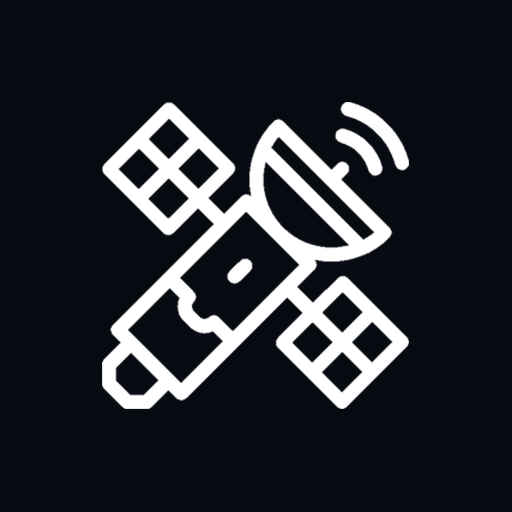
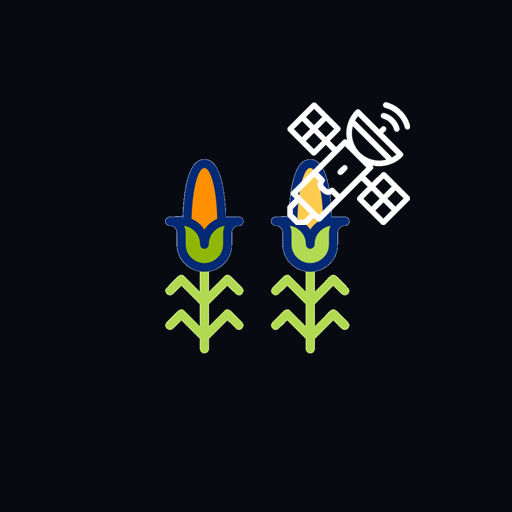
Renombrar la marca a Campo Vivo; icono con mazorcas y satélite pequeño

Changed region(s): [[0.1875, 0.1875, 0.8125, 0.8125]]

diff --git a/index.html b/index.html
@@ -4,8 +4,8 @@
   <meta charset="utf-8">
   <meta name="viewport" content="width=device-width, initial-scale=1">
   <meta name="theme-color" content="#0F2A4A">
-  <meta name="description" content="Agricultura inteligente: evaluación satelital de cultivos de distintos tipos, con identificación de plantas y enfermedades con inteligencia artificial.">
-  <title>Agricultura inteligente</title>
+  <meta name="description" content="Campo Vivo: evaluación satelital de cultivos de distintos tipos, con identificación de plantas y enfermedades con inteligencia artificial.">
+  <title>Campo Vivo</title>
   <link rel="preconnect" href="https://fonts.googleapis.com">
   <link rel="preconnect" href="https://fonts.gstatic.com" crossorigin>
   <link href="https://fonts.googleapis.com/css2?family=Archivo:wdth,wght@90..110,600..800&family=Inter:wght@400;500;600&display=swap" rel="stylesheet">
@@ -23,7 +23,7 @@
         <span class="franja-logo" aria-hidden="true">
           <img class="franja-ganado" src="assets/satelite.webp" alt="">
         </span>
-        <span class="franja-nombre">Agricultura inteligente</span>
+        <span class="franja-nombre">Campo Vivo</span>
         <img class="franja-cerebro" src="assets/cerebro.webp" alt="">
       </a>
       <button type="button" class="menu-btn-portal" aria-expanded="false" aria-controls="menu-principal" aria-label="Menú"><span></span><span></span><span></span></button>
@@ -51,7 +51,7 @@
     <section id="inicio" class="inicio-claro" aria-label="Inicio">
       <div class="inicio-caja">
         <div class="inicio-texto">
-          <p class="eyebrow">Agricultura inteligente</p>
+          <p class="eyebrow">Campo Vivo</p>
           <p class="inicio-lead">Evalúa tus cultivos con tecnología satelital: vigor, humedad y clima de cada lote, para regar, fertilizar y cosechar con información. Identifica plantas y enfermedades con inteligencia artificial desde tu celular.</p>
           <ul>
             <li><b>Vigor y salud:</b> el estado de cada cultivo por lote, desde el satélite.</li>
@@ -60,11 +60,11 @@
             <li><b>Identificación con IA:</b> plantas y enfermedades a partir de una foto.</li>
           </ul>
         </div>
-        <figure class="inicio-imagen"><img src="assets/app-esencia.jpg" alt="Celular en mano mostrando las herramientas de Agricultura inteligente" loading="lazy"><figcaption class="pie-imagen">Agricultura inteligente desde un solo teléfono: evaluación satelital de cultivos, clima y mapas de lotes.</figcaption></figure>
+        <figure class="inicio-imagen"><img src="assets/app-esencia.jpg" alt="Celular en mano mostrando las herramientas de Campo Vivo" loading="lazy"><figcaption class="pie-imagen">Campo Vivo desde un solo teléfono: evaluación satelital de cultivos, clima y mapas de lotes.</figcaption></figure>
       </div>
     </section>
     <section id="como-funciona" class="bloque">
-      <h3 class="subtitulo-app funcion-titulo">Agricultura inteligente · Monitoreo de cultivos</h3>
+      <h3 class="subtitulo-app funcion-titulo">Campo Vivo · Monitoreo de cultivos</h3>
       <div class="como-banda menta banda-salud">
         <div class="como-grid">
           <div>
@@ -184,7 +184,7 @@
           <h3>Inicial</h3>
           <p class="plan-precio"><strong>Gratis</strong></p>
           <ul>
-            <li>Agricultura inteligente con mapa satelital y clima</li>
+            <li>Campo Vivo con mapa satelital y clima</li>
             <li>Pronóstico del clima de tu zona</li>
             <li>Registro básico de lotes y cultivos</li>
           </ul>
@@ -236,7 +236,7 @@
       <div class="acordeon">
         <details open>
           <summary>¿Qué es esta página?</summary>
-          <p>Es la página de Agricultura inteligente: una herramienta que usa imágenes satelitales para evaluar la salud de tus cultivos por lote y apoyar las decisiones de riego, fertilización y cosecha.</p>
+          <p>Es la página de Campo Vivo: una herramienta que usa imágenes satelitales para evaluar la salud de tus cultivos por lote y apoyar las decisiones de riego, fertilización y cosecha.</p>
         </details>
         <details>
           <summary>¿Necesito una cuenta?</summary>
@@ -329,7 +329,7 @@
       </div>
     </div>
     <div class="pie-der">
-      <p class="pie-legal">© 2026 Agricultura inteligente</p>
+      <p class="pie-legal">© 2026 Campo Vivo</p>
     </div>
     <p class="pie-aviso">Esta herramienta es de apoyo: quien la usa es responsable de sus decisiones en el campo.</p>
   </footer>
@@ -365,7 +365,7 @@
   </script>
   <script>
     // Cada opción del menú es una página: solo se muestra la elegida, sin desplazarse entre secciones.
-    // Agricultura inteligente, Gana ID, Pesaje y Huella viven dentro de "Cómo funciona".
+    // Campo Vivo, Gana ID, Pesaje y Huella viven dentro de "Cómo funciona".
     (function () {
       var PAGINAS = ['inicio', 'como-funciona', 'planes', 'preguntas', 'apps'];
       var DENTRO_DE_COMO_FUNCIONA = ['ganader', 'ganaid', 'pesaje', 'huella'];

diff --git a/movil/index.html b/movil/index.html
@@ -6,7 +6,7 @@
   <meta name="theme-color" content="#070A11">
   <meta name="apple-mobile-web-app-capable" content="yes">
   <meta name="apple-mobile-web-app-status-bar-style" content="black-translucent">
-  <title>Agricultura inteligente</title>
+  <title>Campo Vivo</title>
   <link rel="manifest" href="./manifest.webmanifest">
   <link rel="icon" type="image/png" sizes="192x192" href="./icon-192.png">
   <link rel="apple-touch-icon" href="./icon-192.png">
@@ -40,7 +40,7 @@
     .instalar.visible { display: block; }
     /* Iconos de color: el propio icono sirve de máscara */
     .mascara { display: block; width: 30px; height: 30px; background: var(--c); -webkit-mask: var(--img) center / contain no-repeat; mask: var(--img) center / contain no-repeat; }
-    /* Agricultura inteligente: dos pastos abajo y el satélite blanco girado */
+    /* Campo Vivo: dos pastos abajo y el satélite blanco girado */
     .boton-app .ico .combo-ganader { position: relative; display: block; width: 36px; height: 36px; }
     .boton-app .ico .combo-ganader .base { position: absolute; left: 0; bottom: -8px; top: auto; width: 56%; height: auto; }
     .boton-app .ico .combo-ganader .base2 { position: absolute; right: 0; bottom: -8px; top: auto; width: 56%; height: auto; }
@@ -59,7 +59,7 @@
   <section id="pantalla-login" class="pantalla">
     <div class="marca">
       <img src="./icon-192.png" alt="">
-      <h1>Agricultura inteligente</h1>
+      <h1>Campo Vivo</h1>
       <p>Inicia sesión para continuar</p>
     </div>
     <form id="form-login" class="campo-grupo" style="display:grid;gap:12px">
@@ -77,11 +77,11 @@
   <section id="pantalla-apps" class="pantalla">
     <div class="marca">
       <img src="./icon-192.png" alt="">
-      <h1>Agricultura inteligente</h1>
+      <h1>Campo Vivo</h1>
     </div>
     <p class="titulo">¿Qué necesitas hoy?</p>
     <div style="display:grid;gap:12px">
-      <a class="boton-app" href="../potreros/index.html"><span class="ico"><span class="combo-ganader" aria-hidden="true"><img class="base" src="../assets/cesped.png" alt=""><img class="base2" src="../assets/cesped.png" alt=""><img class="sat" src="../assets/satelite.webp" alt=""><img class="maiz b1" src="../assets/maiz-cultivo.gif" alt=""></span></span><span>Agricultura inteligente<small>Monitoreo de cultivos</small></span></a>
+      <a class="boton-app" href="../potreros/index.html"><span class="ico"><img src="../assets/icono-campo-vivo.png" alt=""></span><span>Campo Vivo<small>Monitoreo de cultivos</small></span></a>
       <a class="boton-app oculto" id="enlace-ganaid" href="../ganadero/index.html"><span class="ico"><img src="../assets/ganaid-icono-azul.png" alt=""></span><span>Gana ID<small>Trazabilidad con chip</small></span></a>
       <a class="boton-app oculto" href="../pesaje/index.html"><span class="ico"><img src="../assets/pesaje-icono-rojo.png" alt=""></span><span>Pesaje por imagen<small>Estimación de peso con cámara</small></span></a>
       <a class="boton-app oculto" href="../huella/index.html"><span class="ico"><img src="../assets/huella-icono-sostenible.png" alt=""></span><span>Huella de carbono<small>Metano y maquinaria del campo</small></span></a>

diff --git a/landing.js b/landing.js
@@ -1,12 +1,12 @@
 // =====================================================================
-// Portada única de "Agricultura inteligente".
+// Portada única de "Campo Vivo".
 //
 // Un solo login (Supabase, el mismo de Gana ID) sirve para las dos apps.
 // - Sin sesión: la portada muestra la información y el botón de
 //   "Iniciar sesión" / "Registrarse", que abren el mismo formulario de
 //   Gana ID (bloqueAccesoCuenta / bindAccesoCuenta de shared/ui-common.js).
 // - Con sesión: la portada muestra el selector de app. Gana ID entra según
-//   el rol (admin -> administracion/, ganadero -> ganadero/). Agricultura inteligente
+//   el rol (admin -> administracion/, ganadero -> ganadero/). Campo Vivo
 //   vive en potreros/ del mismo dominio, así que comparte la sesión.
 // =====================================================================
 
@@ -199,8 +199,8 @@ function pintarSeccionApps(session) {
   cont.innerHTML = `
     <div class="apps-grid">
       <article class="app-tarjeta">
-        <span class="app-icono-combo" aria-hidden="true"><img class="base" src="assets/cesped.png" alt=""><img class="base2" src="assets/cesped.png" alt=""><img class="sat" src="assets/satelite.webp" alt=""><img class="maiz b1" src="assets/maiz-cultivo.gif" alt=""></span>
-        <h3>Agricultura inteligente</h3>
+        <img class="app-icono-img" src="assets/icono-campo-vivo.png" alt="" aria-hidden="true">
+        <h3>Campo Vivo</h3>
         <p class="app-subtitulo">Monitoreo de cultivos</p>
         <ul>
           <li>Monitoreo de cultivos con imágenes satelitales</li>

diff --git a/potreros/index.html b/potreros/index.html
@@ -7,14 +7,14 @@
     <link rel="manifest" href="./manifest.webmanifest" />
     <link rel="icon" type="image/png" sizes="192x192" href="./icon-192.png" />
     <link rel="apple-touch-icon" href="./icon-192.png" />
-    <meta name="description" content="Agricultura inteligente: herramienta para monitorear cultivos de distintos tipos. Dibuja tu potrero, revisa su salud satelital y el clima, y lleva el descanso y la ocupación." />
+    <meta name="description" content="Campo Vivo: herramienta para monitorear cultivos de distintos tipos. Dibuja tu potrero, revisa su salud satelital y el clima, y lleva el descanso y la ocupación." />
     <link rel="preconnect" href="https://fonts.googleapis.com" />
     <link rel="preconnect" href="https://fonts.gstatic.com" crossorigin />
     <link
       href="https://fonts.googleapis.com/css2?family=Archivo:wdth,wght@90..110,600..800&family=Inter:wght@400;500;600&display=swap"
       rel="stylesheet"
     />
-    <title>Agricultura inteligente</title>
+    <title>Campo Vivo</title>
     <script type="module" crossorigin src="./assets/index-D10fhGVg.js"></script>
     <link rel="stylesheet" crossorigin href="./assets/index-BRniseXL.css">
   </head>

diff --git a/potreros/mapa-alertas/index.html b/potreros/mapa-alertas/index.html
@@ -56,7 +56,7 @@
 
     <section class="tarjeta" id="acceso" hidden>
       <h2>Inicia sesión para ver incendios</h2>
-      <p>Usa tu cuenta de Agricultura inteligente. Los focos de calor requieren sesión.</p>
+      <p>Usa tu cuenta de Campo Vivo. Los focos de calor requieren sesión.</p>
       <form id="form-acceso" style="display:grid;gap:10px">
         <input id="acceso-correo" type="email" placeholder="Correo" required style="padding:10px;border-radius:10px;border:1px solid #2A3B5C;background:#0A1020;color:#E2E8F0">
         <input id="acceso-clave" type="password" placeholder="Contraseña" required style="padding:10px;border-radius:10px;border:1px solid #2A3B5C;background:#0A1020;color:#E2E8F0">

diff --git a/landing.css b/landing.css
@@ -1157,10 +1157,10 @@ main { max-width: 1080px; margin: 0 auto; padding: 0 16px; }
   .menu-btn-portal { flex: 0 0 auto; }
 }
 
-/* Icono de Agricultura inteligente: maíz animado sin fondo, centrado sobre el pasto */
+/* Icono de Campo Vivo: maíz animado sin fondo, centrado sobre el pasto */
 .app-icono-combo .base, .app-icono-combo .base2 { bottom: -16px; }
 
-/* Icono de Agricultura inteligente: 4 maíces animados sin fondo, en una fila inferior */
+/* Icono de Campo Vivo: 4 maíces animados sin fondo, en una fila inferior */
 .app-icono-combo .maiz { position: absolute; bottom: 0; width: 55%; height: auto; }
 .app-icono-combo .b1 { left: 0; }
 

diff --git a/potreros/inventario/index.html b/potreros/inventario/index.html
@@ -42,7 +42,7 @@
   <main>
     <section class="tarjeta" id="acceso">
       <h2>Inicia sesión</h2>
-      <p class="suave">Usa tu cuenta de Agricultura inteligente para guardar tu inventario.</p>
+      <p class="suave">Usa tu cuenta de Campo Vivo para guardar tu inventario.</p>
       <form id="form-acceso" style="display:grid;gap:10px">
         <input id="acceso-correo" type="email" placeholder="Correo" required>
         <input id="acceso-clave" type="password" placeholder="Contraseña" required>

diff --git a/potreros/sw.js b/potreros/sw.js
@@ -1,4 +1,4 @@
-// Service worker de Agricultura inteligente. Solo hace que la app sea instalable.
+// Service worker de Campo Vivo. Solo hace que la app sea instalable.
 // No guarda ni intercepta respuestas: cada pantalla y cada dato vienen siempre de la red.
 // (Una versión anterior con caché dejaba la app en blanco al actualizar.)
 self.addEventListener('install', () => self.skipWaiting());

diff --git a/movil/sw.js b/movil/sw.js
@@ -1,4 +1,4 @@
-// Service worker de la app Agricultura inteligente. Solo la hace instalable; no guarda respuestas.
+// Service worker de la app Campo Vivo. Solo la hace instalable; no guarda respuestas.
 self.addEventListener('install', () => self.skipWaiting());
 self.addEventListener('activate', (event) => event.waitUntil(self.clients.claim()));
 self.addEventListener('fetch', () => {});
